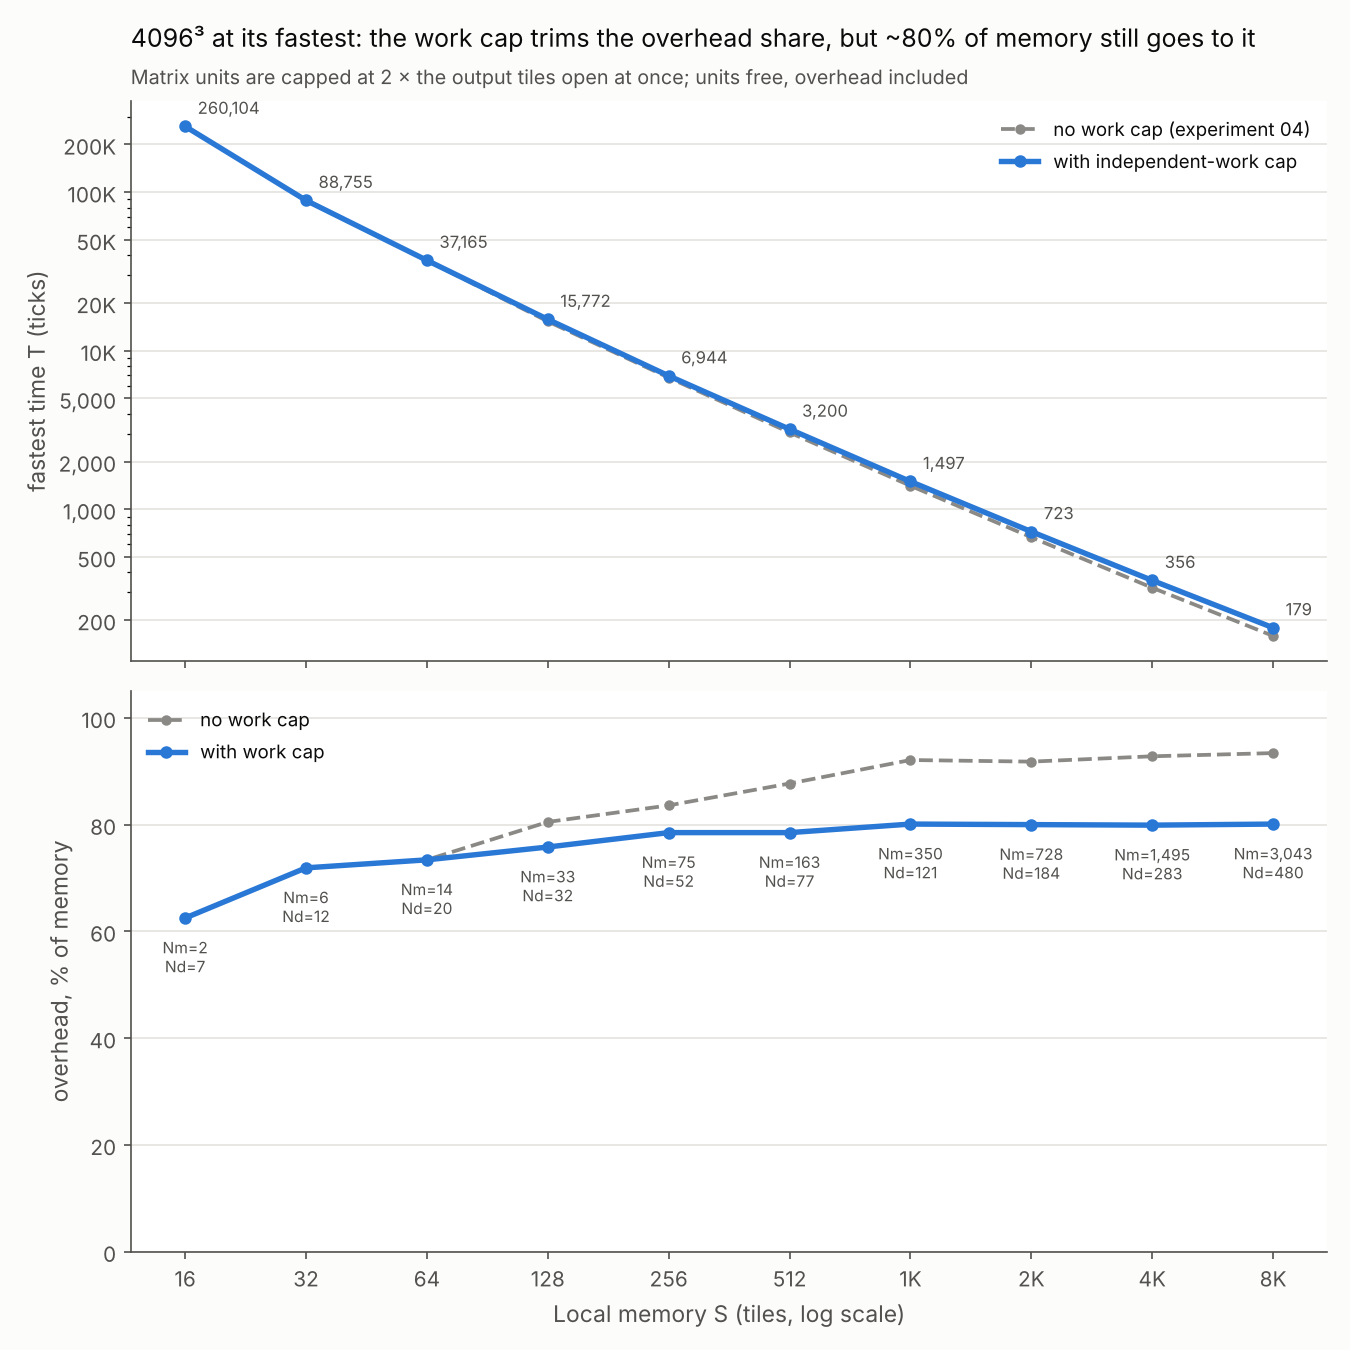
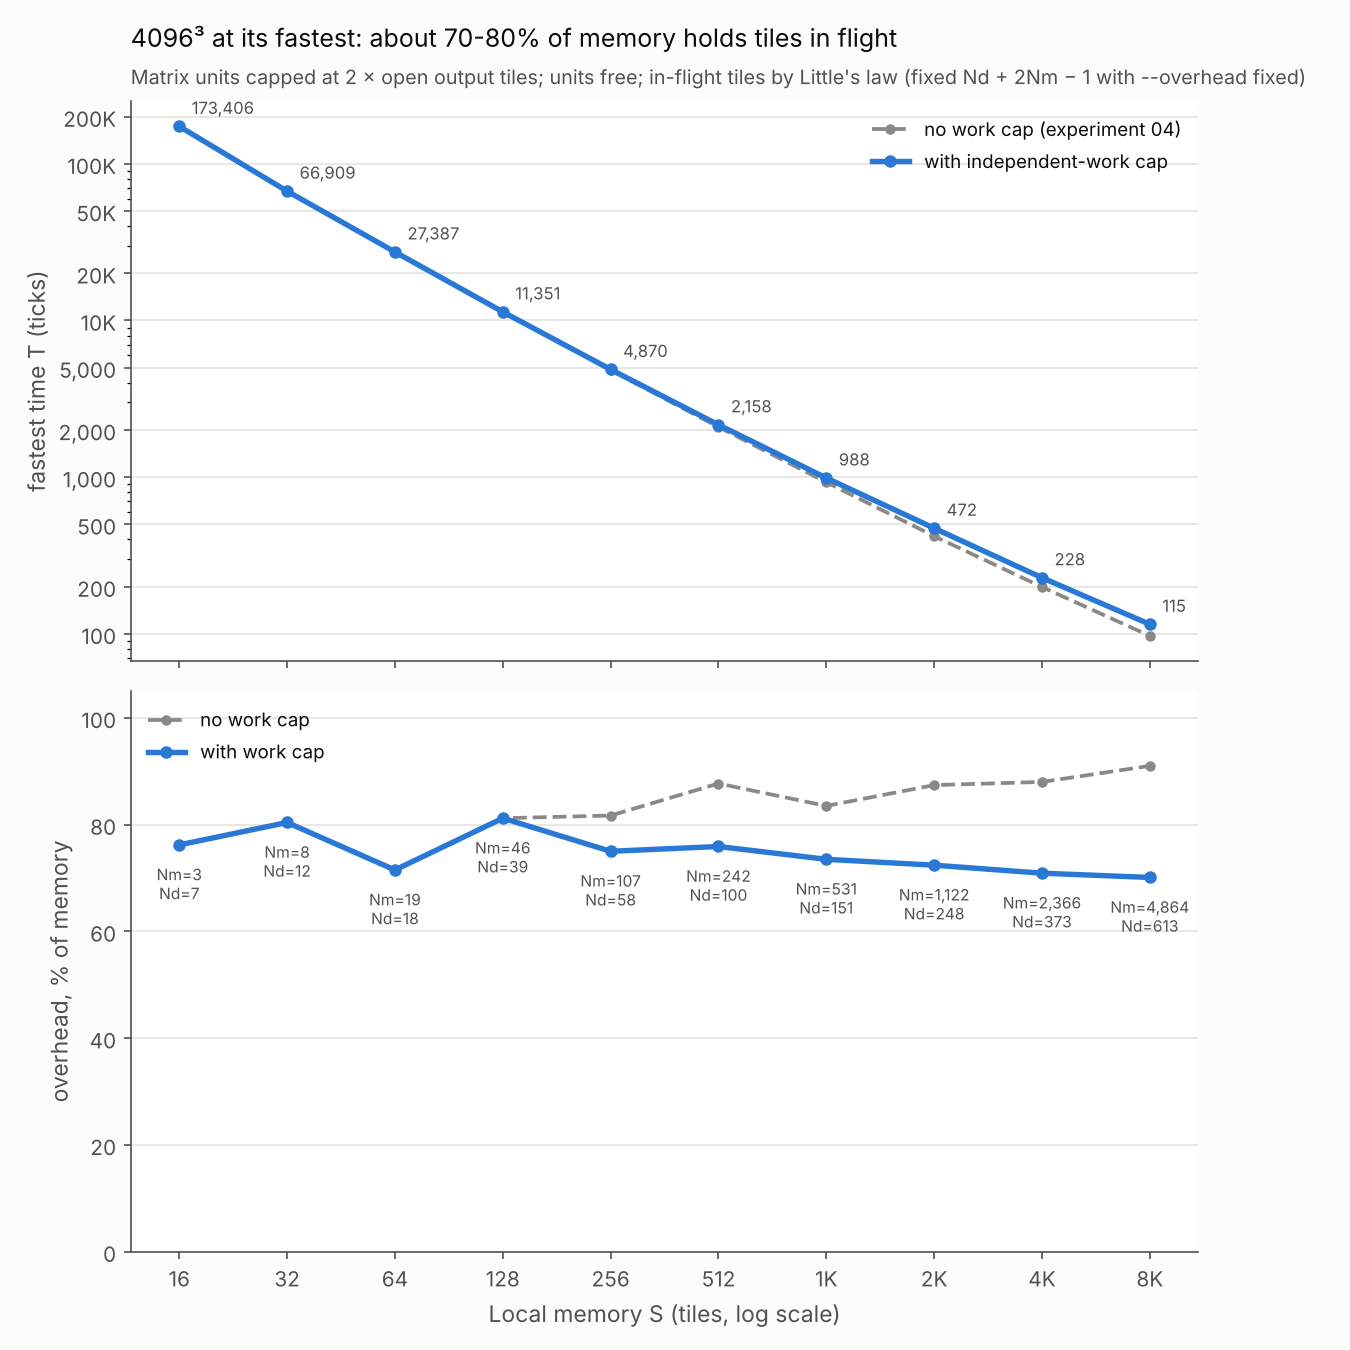
Use the Little's-law memory check in the optimizer (experiment 05)
Claude-Session: https://claude.ai/code/session_01DGvLJ7ZTRfxZ8fmwkevm71

diff --git a/Mathematical_foundation/experiments/05_work_cap_and_time_target/run.py b/Mathematical_foundation/experiments/05_work_cap_and_time_target/run.py
@@ -35,13 +35,86 @@ sys.path.insert(0, str(HERE.parents[1]))  # Mathematical_foundation/
 import matplotlib.pyplot as plt  # noqa: E402
 from matplotlib.ticker import FuncFormatter, LogLocator  # noqa: E402
 
-from foundation import LD, LM, op_counts, tilings  # noqa: E402
+from foundation import LD, LM, in_flight_work, little_memory, op_counts, tilings  # noqa: E402
 from foundation.plotting import AQUA, BLUE, GREYS, GRID, INK, INK2, ORANGE, SURFACE  # noqa: E402
 
 MEMS = [16, 32, 64, 128, 256, 512, 1024, 2048, 4096, 8192]
 
 
+OVERHEAD = "little"  # "little" (Little's law, default) or "fixed" (Nd + 2 Nm - 1); set by --overhead
+
+
+def fastest_little(N, mems, capped=True):
+    """Fastest T at each S with the Little's-law memory check.
+
+    For a tiling, memory M = R + X / (T - 2 Ld) with X = in_flight_work, so
+    M <= S gives T >= 2 Ld + X / (S - R). The work cap adds T >= 2 Ld + W / cap.
+    Units are then the fewest that reach that T.
+    """
+    c = op_counts(N, N, N)
+    W = c.COMPUTE + c.ACC
+    rows = []
+    for S in mems:
+        best = None
+        for t in tilings(N, N, N):
+            if t.resident >= S:
+                continue
+            win = max(1.0, in_flight_work(t, c) / (S - t.resident))
+            if capped:
+                win = max(win, W / t.cap)
+            nm = math.ceil(W / win - 1e-9)
+            nd = math.ceil((t.loads + c.SAVE) * LD / win - 1e-9)
+            T = 2 * LD + max(math.ceil(W / nm) * LM, (t.loads + c.SAVE) * LD / nd)
+            key = (round(T, 6), nd + nm)
+            if best is None or key < best[0]:
+                best = (key, t, nd, nm, T)
+        _, t, nd, nm, T = best
+        O = little_memory(t, c, T - 2 * LD) - t.resident
+        rows.append({"S": S, "T": round(T), "Nd": nd, "Nm": nm, "O": round(O, 1), "O_pct": round(100 * O / S, 1),
+                     "tiling": t.name, "open_outputs": t.open, "cap": t.cap, "DMA": t.loads + c.SAVE})
+    return rows
+
+
+def cheapest_little(N, mems, target):
+    """Fewest units with T <= target; a tiling fits when its Little's-law memory M <= S."""
+    c = op_counts(N, N, N)
+    W = c.COMPUTE + c.ACC
+    budget = target - 2 * LD
+    nm = math.ceil(W / budget / LM)
+    ts = [t for t in tilings(N, N, N) if t.cap >= nm]
+    rows = []
+    for S in mems:
+        best = None
+        for t in ts:
+            nd = math.ceil((t.loads + c.SAVE) * LD / budget)
+            M = little_memory(t, c, budget)
+            if M <= S and (best is None or (nd, M) < (best[0], best[2])):
+                best = (nd, t, M)
+        if best is None:
+            rows.append({"S": S, "feasible": False})
+            continue
+        nd, t, M = best
+        O = M - t.resident
+        T = 2 * LD + max(math.ceil(W / nm) * LM, (t.loads + c.SAVE) * LD / nd)
+        rows.append({"S": S, "feasible": True, "Nd": nd, "Nm": nm, "units": nd + nm, "O": round(O, 1),
+                     "O_pct": round(100 * O / S, 1), "T": round(T), "tiling": t.name, "need": round(M, 1),
+                     "resident": t.resident, "cap": t.cap, "DMA": t.loads + c.SAVE})
+    return rows
+
+
 def fastest(N, mems, capped=True):
+    if OVERHEAD == "little":
+        return fastest_little(N, mems, capped)
+    return fastest_fixed(N, mems, capped)
+
+
+def cheapest(N, mems, target):
+    if OVERHEAD == "little":
+        return cheapest_little(N, mems, target)
+    return cheapest_fixed(N, mems, target)
+
+
+def fastest_fixed(N, mems, capped=True):
     c = op_counts(N, N, N)
     W = c.COMPUTE + c.ACC
     ts = tilings(N, N, N)
@@ -75,7 +148,7 @@ def fastest(N, mems, capped=True):
     return rows
 
 
-def cheapest(N, mems, target):
+def cheapest_fixed(N, mems, target):
     c = op_counts(N, N, N)
     W = c.COMPUTE + c.ACC
     budget = target - 2 * LD
@@ -146,9 +219,9 @@ def plot_fastest(N, cap, free, out):
         a1.annotate(f"{r['T']:,}", (r["S"], r["T"]), xytext=(6, 6), textcoords="offset points", fontsize=8, color=INK2)
     a1.set_ylabel("fastest time T (ticks)", color=INK2, fontsize=11)
     a1.legend(frameon=False, fontsize=9, labelcolor=INK)
-    a1.set_title(f"{N}³ at its fastest: the work cap trims the overhead share, but ~80% of memory still goes to it",
+    a1.set_title(f"{N}³ at its fastest: about 70-80% of memory holds tiles in flight",
                  loc="left", color=INK, fontsize=12, pad=26)
-    a1.text(0, 1.03, "Matrix units are capped at 2 × the output tiles open at once; units free, overhead included",
+    a1.text(0, 1.03, "Matrix units capped at 2 × open output tiles; units free; in-flight tiles by Little's law (fixed Nd + 2Nm − 1 with --overhead fixed)",
             transform=a1.transAxes, color=INK2, fontsize=9.5)
     a2.plot(xs, [r["O_pct"] for r in free], color=GREYS[0], lw=1.8, ls="--", marker="o", ms=4, label="no work cap")
     a2.plot(xs, [r["O_pct"] for r in cap], color=BLUE, lw=2.6, marker="o", ms=5, label="with work cap")
@@ -192,13 +265,13 @@ def plot_target(N, rows, target, out):
                  loc="left", color=INK, fontsize=12, pad=26)
     a1.text(0, 1.03, "Cheapest setup (fewest Nd + Nm) at each memory size, with overlap overhead and the work cap",
             transform=a1.transAxes, color=INK2, fontsize=9.5)
-    a2.bar(xs, [r["O_pct"] for r in ok], width=[x * 0.45 for x in xs], color=BLUE, alpha=0.85)
+    a2.bar(xs, [r["O_pct"] for r in ok], width=[x * 0.16 for x in xs], color=BLUE, alpha=0.85)
     for r in ok:
         a2.annotate(f"{r['O_pct']:.0f}%\n({r['O']})", (r["S"], r["O_pct"]), xytext=(0, 4), textcoords="offset points",
                     ha="center", fontsize=8, color=INK2)
     a2.set_ylim(0, 115)
     a2.set_ylabel("overhead, % of memory (slots)", color=INK2, fontsize=11)
-    ticks = [x for x in allx if x == first["S"] or abs(x / first["S"] - 1) > 0.15]
+    ticks = [x for x in allx if x == first["S"] or abs(x / first["S"] - 1) > 0.3]
     a2.set_xticks(ticks, [k_label(x) for x in ticks], fontsize=9)
     a2.minorticks_off()
     a2.set_xlabel("Local memory S (tiles, log scale)", color=INK2, fontsize=11)
@@ -221,19 +294,24 @@ def main():
     ap.add_argument("--target", type=int, default=15000)
     ap.add_argument("--mem", default=";".join(map(str, MEMS)))
     ap.add_argument("--out", default=str(HERE / "outputs"))
+    ap.add_argument("--overhead", choices=["little", "fixed"], default="little",
+                    help="memory check: Little's law (default) or the fixed Nd + 2 Nm - 1")
     a = ap.parse_args()
+    global OVERHEAD
+    OVERHEAD = a.overhead
+    sfx = "" if a.overhead == "little" else "_fixed"
     mems = [int(s) for s in a.mem.split(";")]
     out = Path(a.out)
     out.mkdir(parents=True, exist_ok=True)
     cap, free = fastest(a.size, mems, True), fastest(a.size, mems, False)
-    plot_fastest(a.size, cap, free, out / f"fastest_capped_{a.size}.png")
-    write([{"capped": True, **r} for r in cap] + [{"capped": False, **r} for r in free], out / f"fastest_capped_{a.size}.csv")
+    plot_fastest(a.size, cap, free, out / f"fastest_capped_{a.size}{sfx}.png")
+    write([{"capped": True, **r} for r in cap] + [{"capped": False, **r} for r in free], out / f"fastest_capped_{a.size}{sfx}.csv")
     smin = min_memory(a.size, a.target, max(mems))
     tmems = sorted(set(mems) | ({smin} if smin else set()))
     tgt = cheapest(a.size, tmems, a.target)
     print("smallest memory that meets the target:", smin)
-    plot_target(a.size, tgt, a.target, out / f"target_{a.target}_{a.size}.png")
-    write(tgt, out / f"target_{a.target}_{a.size}.csv")
+    plot_target(a.size, tgt, a.target, out / f"target_{a.target}_{a.size}{sfx}.png")
+    write(tgt, out / f"target_{a.target}_{a.size}{sfx}.csv")
     print("fastest, capped vs free")
     for r1, r2 in zip(cap, free):
         print(r1, "| free:", r2["T"], r2["Nd"], r2["Nm"], r2["O_pct"])

diff --git a/Mathematical_foundation/foundation/parallelism.py b/Mathematical_foundation/foundation/parallelism.py
@@ -17,13 +17,25 @@ units at
 
 Units above the cap sit idle, but still hold their slots in the overlap
 overhead, so they are pure cost.
+
+Memory the tiling uses (Little's law, quasi-optimal scheduling): slots in use =
+resident tiles + arrival rate x time each in-flight tile holds its slot, over a
+compute window of T - 2 Ld ticks:
+
+    M = R + (L tau + COMPUTE 2 Lm + SAVE Ld) / (T - 2 Ld),   tau = Ld + Lm (1 + acc)
+
+    R, block bm x bn:  acc bm bn      (the running sums; streamed A and B tiles are
+                                       counted in the load term)
+    R, panel p:        p k + acc p    (the whole panel stays, plus its sums)
+
+This replaces the fixed overhead Nd + 2 Nm - 1, which assumed every unit busy.
 """
 
 from __future__ import annotations
 
 from dataclasses import dataclass
 
-from .counts import cdiv, tiles
+from .counts import OpCounts, cdiv, tiles
 
 
 @dataclass(frozen=True)
@@ -33,6 +45,7 @@ class Tiling:
     loads: int  # LOAD instructions
     open: int   # output tiles open (running sums) at once
     cap: int    # max useful matrix units, (1 + acc) * open
+    resident: int = 0  # tiles held for the whole tiling (Little's-law R)
 
 
 def tilings(M: int, K: int, N: int) -> list[Tiling]:
@@ -48,11 +61,24 @@ def tilings(M: int, K: int, N: int) -> list[Tiling]:
     for bm in range(1, m + 1):
         for bn in range(1, n + 1):
             L = max(floor, k * (m * cdiv(n, bn) + n * cdiv(m, bm)))
-            out.append(Tiling(f"block{bm}x{bn}", (bm + 1) * (bn + 1), L, bm * bn, (1 + acc) * bm * bn))
+            out.append(Tiling(f"block{bm}x{bn}", (bm + 1) * (bn + 1), L, bm * bn, (1 + acc) * bm * bn,
+                              acc * bm * bn))
     for p in range(1, m + 1):
         L = max(floor, m * k + n * k * cdiv(m, p))
-        out.append(Tiling(f"Apanel{p}", p * (k + acc) + 2, L, p, (1 + acc) * p))
+        out.append(Tiling(f"Apanel{p}", p * (k + acc) + 2, L, p, (1 + acc) * p, p * (k + acc)))
     for p in range(1, n + 1):
         L = max(floor, n * k + m * k * cdiv(n, p))
-        out.append(Tiling(f"Bpanel{p}", p * (k + acc) + 2, L, p, (1 + acc) * p))
+        out.append(Tiling(f"Bpanel{p}", p * (k + acc) + 2, L, p, (1 + acc) * p, p * (k + acc)))
     return out
+
+
+def in_flight_work(t: Tiling, c: OpCounts) -> float:
+    """Slot-ticks of in-flight tiles over the whole job; divide by the window for slots."""
+    from .timing import LD, LM
+    acc = 1 if c.ACC else 0
+    return t.loads * (LD + LM * (1 + acc)) + c.COMPUTE * 2 * LM + c.SAVE * LD
+
+
+def little_memory(t: Tiling, c: OpCounts, window: float) -> float:
+    """Memory the tiling uses at steady state over a compute window of `window` ticks."""
+    return t.resident + in_flight_work(t, c) / window

diff --git a/Mathematical_foundation/foundation/__init__.py b/Mathematical_foundation/foundation/__init__.py
@@ -5,7 +5,7 @@ the event-driven simulator in matmul_sim/ is used only to validate it.
 """
 
 from .counts import TILE, OpCounts, cdiv, loads_with_memory, op_counts, overlap_overhead, tiles
-from .parallelism import Tiling, tilings
+from .parallelism import Tiling, in_flight_work, little_memory, tilings
 from .timing import LD, LM, Timing, predict_time
 
-__all__ = ["TILE", "OpCounts", "cdiv", "loads_with_memory", "op_counts", "overlap_overhead", "tiles", "LD", "LM", "Timing", "predict_time", "Tiling", "tilings"]
+__all__ = ["TILE", "OpCounts", "cdiv", "loads_with_memory", "op_counts", "overlap_overhead", "tiles", "LD", "LM", "Timing", "predict_time", "Tiling", "tilings", "in_flight_work", "little_memory"]

diff --git a/Mathematical_foundation/tests/test_counts.py b/Mathematical_foundation/tests/test_counts.py
@@ -72,3 +72,14 @@ def test_profile_areas_match_counted_work():
         busy = np.trapezoid(p["mat_pct"] / 100 * nm, p["t"])
         assert busy == pytest.approx(W, rel=0.02)
         assert p["mem_tiles"].max() <= S
+
+
+def test_little_memory():
+    """Little's-law memory: resident sums plus rate x hold time for in-flight tiles."""
+    from foundation import little_memory, tilings
+
+    c = op_counts(4096, 4096, 4096)
+    t = next(x for x in tilings(4096, 4096, 4096) if x.name == "block13x13")
+    assert t.resident == 169
+    expect = 169 + (t.loads * 6 + c.COMPUTE * 2 + c.SAVE * 4) / 14992
+    assert little_memory(t, c, 14992) == pytest.approx(expect)

diff --git a/Mathematical_foundation/experiments/05_work_cap_and_time_target/README.md b/Mathematical_foundation/experiments/05_work_cap_and_time_target/README.md
@@ -12,46 +12,64 @@ feeding one ACC per tick), and
 
 Units above the cap sit idle but still hold overhead slots.
 
+## The memory check: Little's law (default)
+
+A tiling fits in S when the memory it uses at steady state is at most S:
+
+    M = R + (L tau + COMPUTE 2 Lm + SAVE Ld) / (T - 2 Ld)       tau = Ld + 2 Lm = 6
+
+R is the resident set (the bm·bn running sums for a block; the whole panel plus
+its sums for a panel). The rest is Little's law: each tile in flight holds its
+slot for a known time, so slots = rate × hold time. This replaces the fixed
+overhead Nd + 2 Nm − 1, which reserved slots as if every unit were busy all the
+time. The old results are kept as `outputs/*_fixed.*` (`--overhead fixed`).
+
 ## Part A: fastest setup, with and without the cap (4096³)
 
-| S | T, no cap | T, cap | overhead, no cap | overhead, cap | Nd, Nm (cap) | tiling (cap) |
-|---|---|---|---|---|---|---|
-| 128 | 15,308 | 15,772 | 81% | 76% | 32, 33 | block 4x5 |
-| 1,024 | 1,407 | 1,497 | 92% | 80% | 121, 350 | block 11x16 |
-| 8,192 | 159 | 179 | 93% | 80% | 480, 3,043 | block 24x64 |
+Units are free. For each tiling, M <= S gives T >= 2 Ld + X / (S − R), with X the
+in-flight slot-ticks; the cap adds T >= 2 Ld + W / cap.
 
-The cap is real but weak: the search answers it by switching to wider blocks
-that keep more outputs open, at a cost of 3 to 12% in time. About 80% of memory
-still goes to overlap when units are free, because each matrix unit needs 2
-buffer slots and the work-cap only asks for 1 open output per 2 units.
+| S | T, cap | in flight (% of S) | Nd, Nm | tiling |
+|---|---|---|---|---|
+| 128 | 11,351 | 81% | 39, 46 | block 5x5 |
+| 1,024 | 988 | 74% | 151, 531 | block 16x17 |
+| 8,192 | 115 | 70% | 613, 4,864 | block 38x64 |
+
+Run flat out, about 70 to 80% of memory holds tiles in flight. That is Little's
+law: a faster job has more tiles in flight at once. The fastest times are lower
+than with the fixed overhead (15,772 → 11,351 ticks at S = 128), because the
+fixed formula reserved slots for units that were not busy.
 
 ## Part B: cheapest setup under 15,000 ticks (4096³)
 
 The target fixes Nm = ceil(W / (15,000 − 8)) = 35. Each tiling then needs
 Nd = ceil((L + SAVE) · 4 / 14,992) DMA units; the cheapest is the tiling with
-the fewest that fits in S with its overhead and has cap >= 35.
+the fewest that fits (M <= S, with T − 2 Ld = 14,992) and has cap >= 35.
 
-| S | feasible | Nd | Nm | units | overhead (% of S) | tiling | T |
-|---|---|---|---|---|---|---|---|
-| < 132 | no | | | | | | |
-| 132 | yes | 33 | 35 | 68 | 102 (77%) | block 4x5 | 14,903 |
-| 256 | yes | 14 | 35 | 49 | 83 (32%) | block 11x13 | 14,871 |
-| 1,024 | yes | 7 | 35 | 42 | 76 (7%) | block 22x32 | 14,871 |
-| 8,192 | yes | 4 | 35 | 39 | 73 (1%) | A panel 64 | 14,871 |
+| S | Nd | units | M = R + in flight | tiling | fixed overhead (Nd, tiling) |
+|---|---|---|---|---|---|
+| < 104 | infeasible | | | | |
+| 104 | 30 | 65 | 25 + 78.7 | block 5x5 | infeasible |
+| 128 | 19 | 54 | 64 + 62.3 | block 8x8 | infeasible |
+| 256 | 13 | 48 | 169 + 52.5 | block 13x13 | 14, block 11x13 |
+| 1,024 | 7 | 42 | 704 + 44.3 | block 22x32 | 7 |
+| 8,192 | 4 | 39 | 4,096 + 39.3 | block 64x64 | 4 |
 
-- **132 tiles is the least memory that can meet the target.** There, reuse is
-  so low that 33 DMA units are needed, and the overhead is 77% of memory again.
-- **Memory buys DMA units, not matrix units.** Nm stays at 35 (set by the
-  work); Nd falls from 33 to 4 as reuse improves.
-- **With a target, the overhead is small:** about 75 slots, under 8% of memory
-  from 1,024 tiles up. The 80 to 93% only happens when chasing the fastest time.
-
-Not yet modelled: a cost per unit and per tile of memory (here units count
-equally and memory is free), and the Little's-law slot time for loads.
+- **104 tiles is the least memory that can meet the target** (132 with the
+  fixed overhead). The smallest block with enough independent work for 35 matrix
+  units is 4x5 or 5x5; its in-flight tiles take about 79 slots.
+- **Memory buys DMA units, not matrix units.** Nm stays at 35; Nd falls from 30
+  to 4 as reuse improves.
+- **The in-flight floor is about 39 slots**, set by the target: 35 for compute
+  (2 slots for 1 tick at 35 per tick) plus about 4 for loads and saves at best.
+- **Choosing S** needs a price for a DMA unit relative to a memory tile:
+  104 → 256 saves 17 units for 152 tiles (9 tiles per unit); 256 → 1,024 saves 6
+  for 768 (128 tiles per unit).
 
 Regenerate:
 
 ```
 python run.py                              # 4096³, target 15,000
 python run.py --size 2048 --target 5000
+python run.py --overhead fixed           # the old Nd + 2 Nm - 1 check
 ```

diff --git a/Mathematical_foundation/docs/equations.md b/Mathematical_foundation/docs/equations.md
@@ -38,6 +38,14 @@ All quantities are in tiles (one 64x64 block) or ticks (128 cycles).
                             COMPUTE/ACC (2 per matrix unit) can overlap
     tiling budget:  (bm + 1)(bn + 1) <= S - O,   no reloads once S >= S0 + O
 
+  Superseded by the Little's-law check (`foundation/parallelism.py: little_memory`),
+  which counts slots at the rates the schedule actually runs, not with every unit busy:
+
+    M = R + (L tau + COMPUTE 2 Lm + SAVE Ld) / (T - 2 Ld) <= S,   tau = Ld + Lm (1 + acc)
+    R = acc bm bn (block),  p (k + acc) (panel)
+
+  Experiment 05 uses it by default (`--overhead fixed` gives the old check).
+
 ## Step 2c: independent-work cap (implemented in `foundation/parallelism.py`)
 
     Nm_eff <= (1 + acc) * open     open = bm bn (block) or p (panel): output tiles with a running sum in memory
